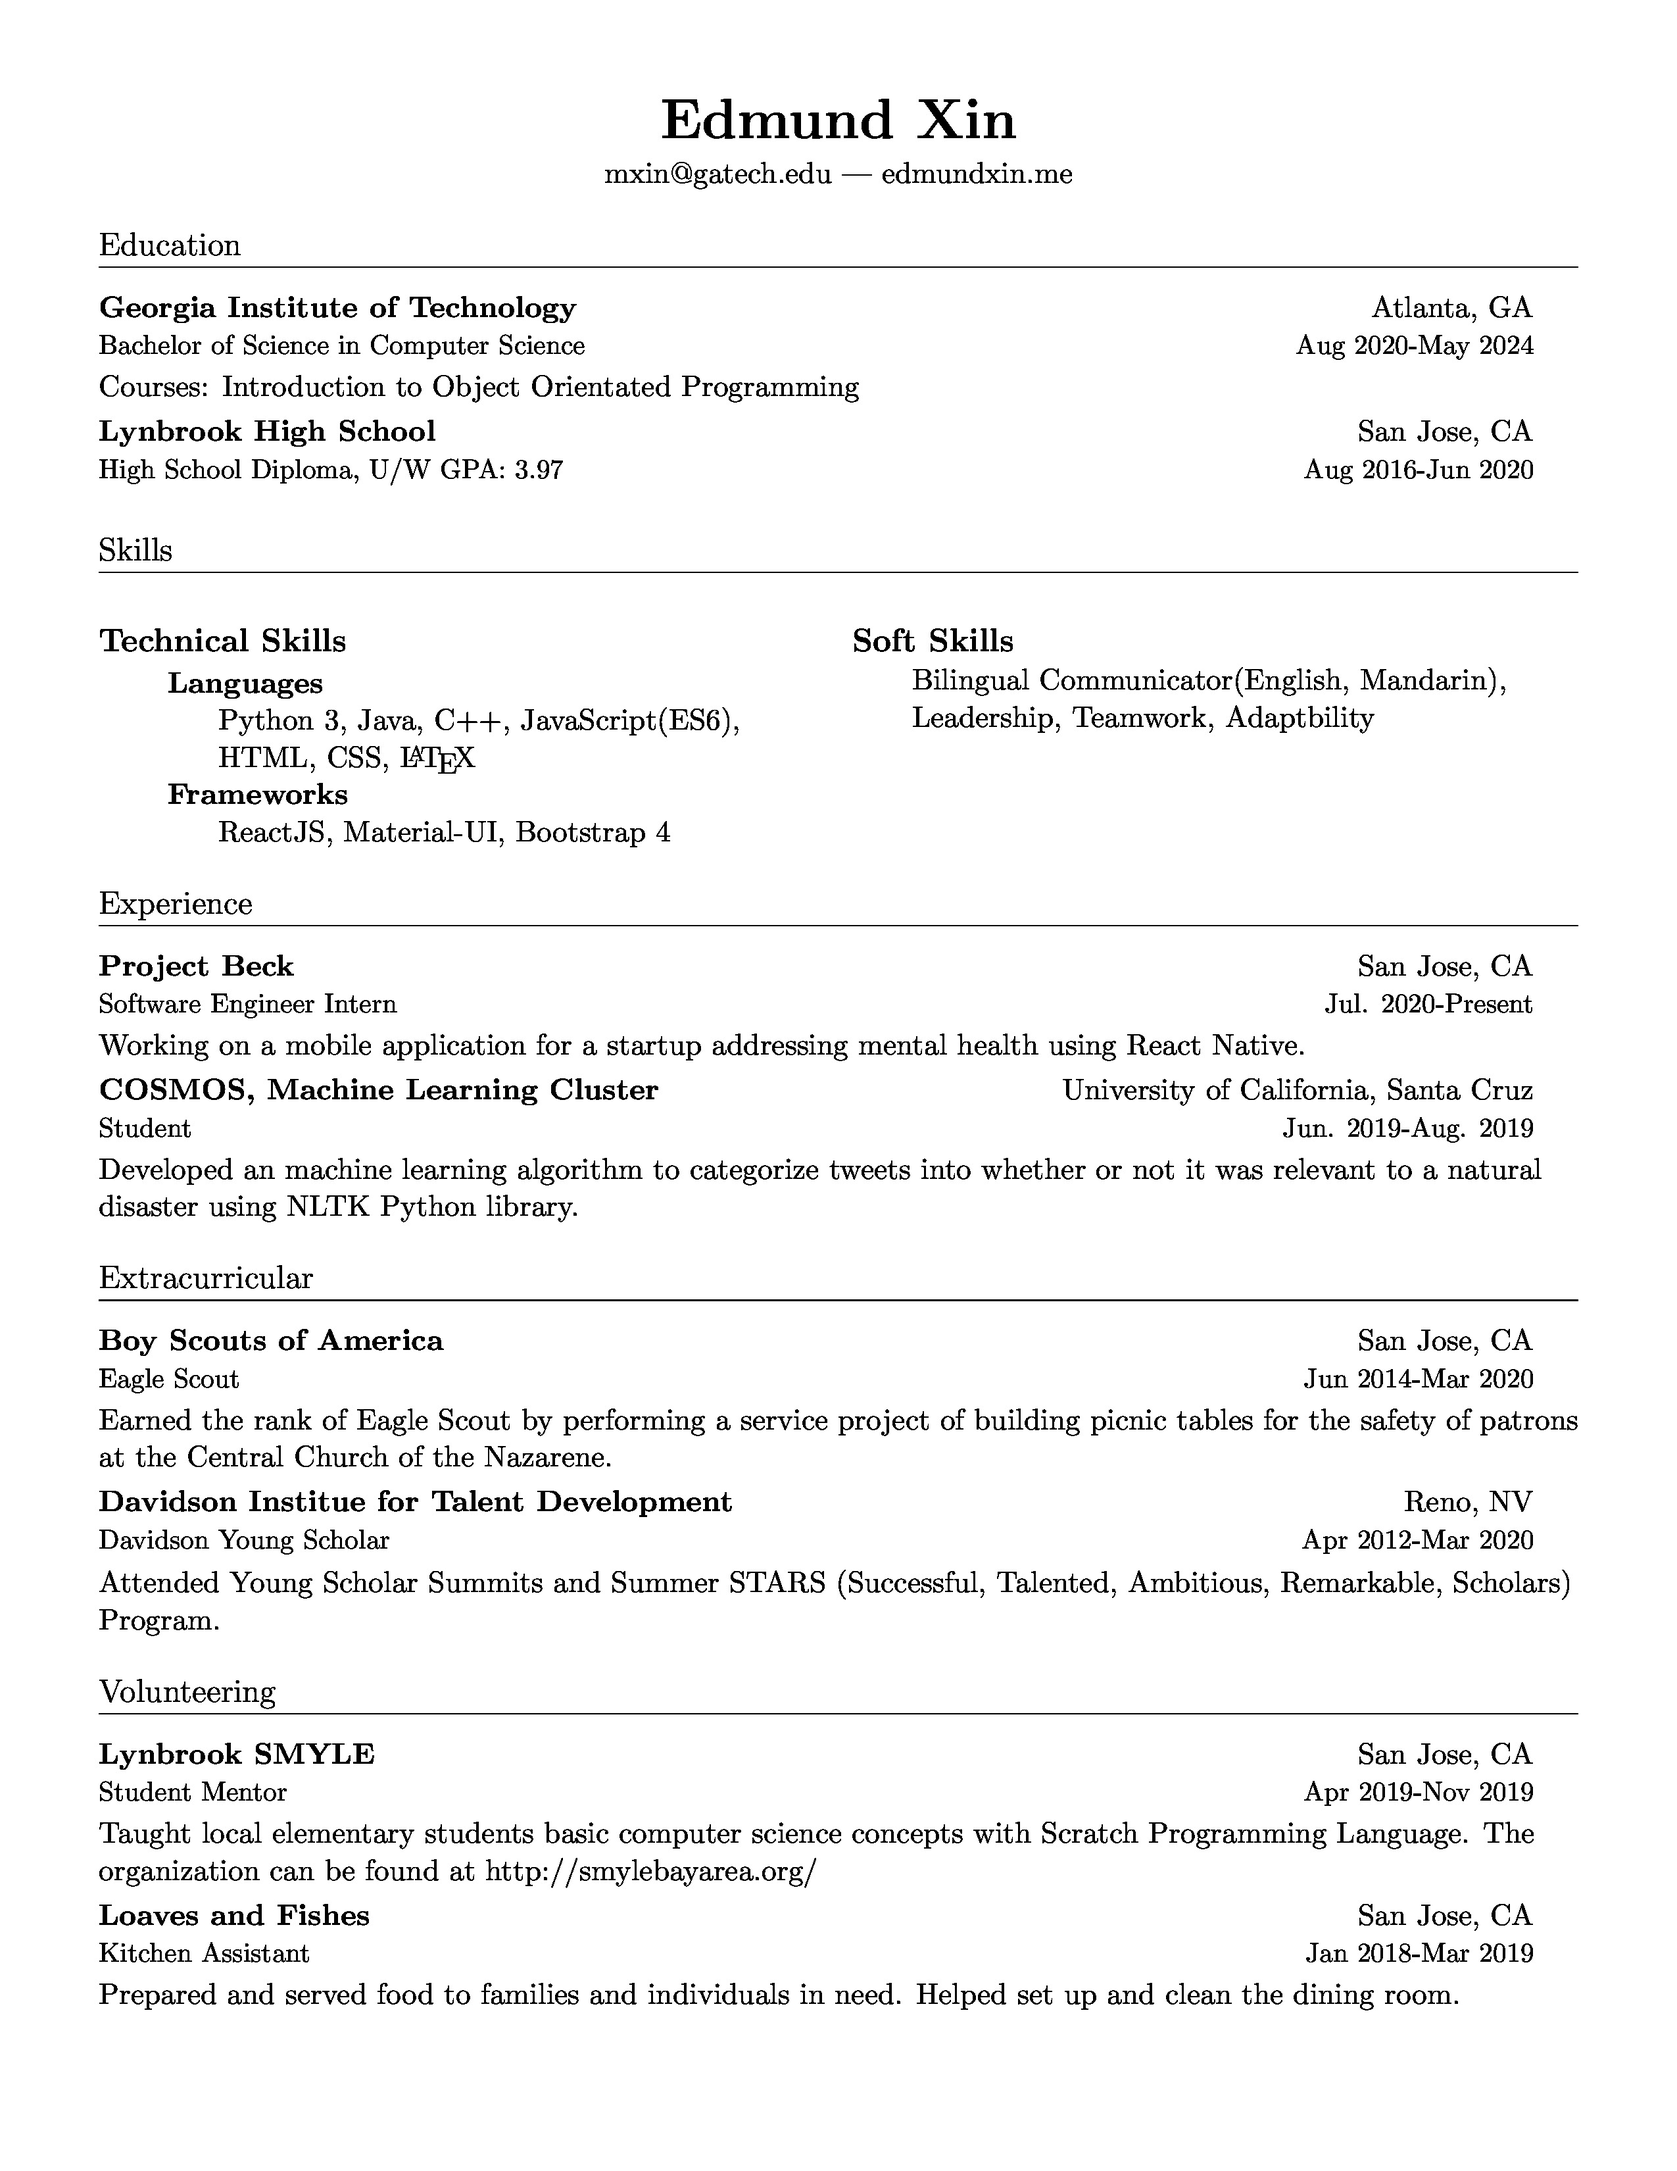
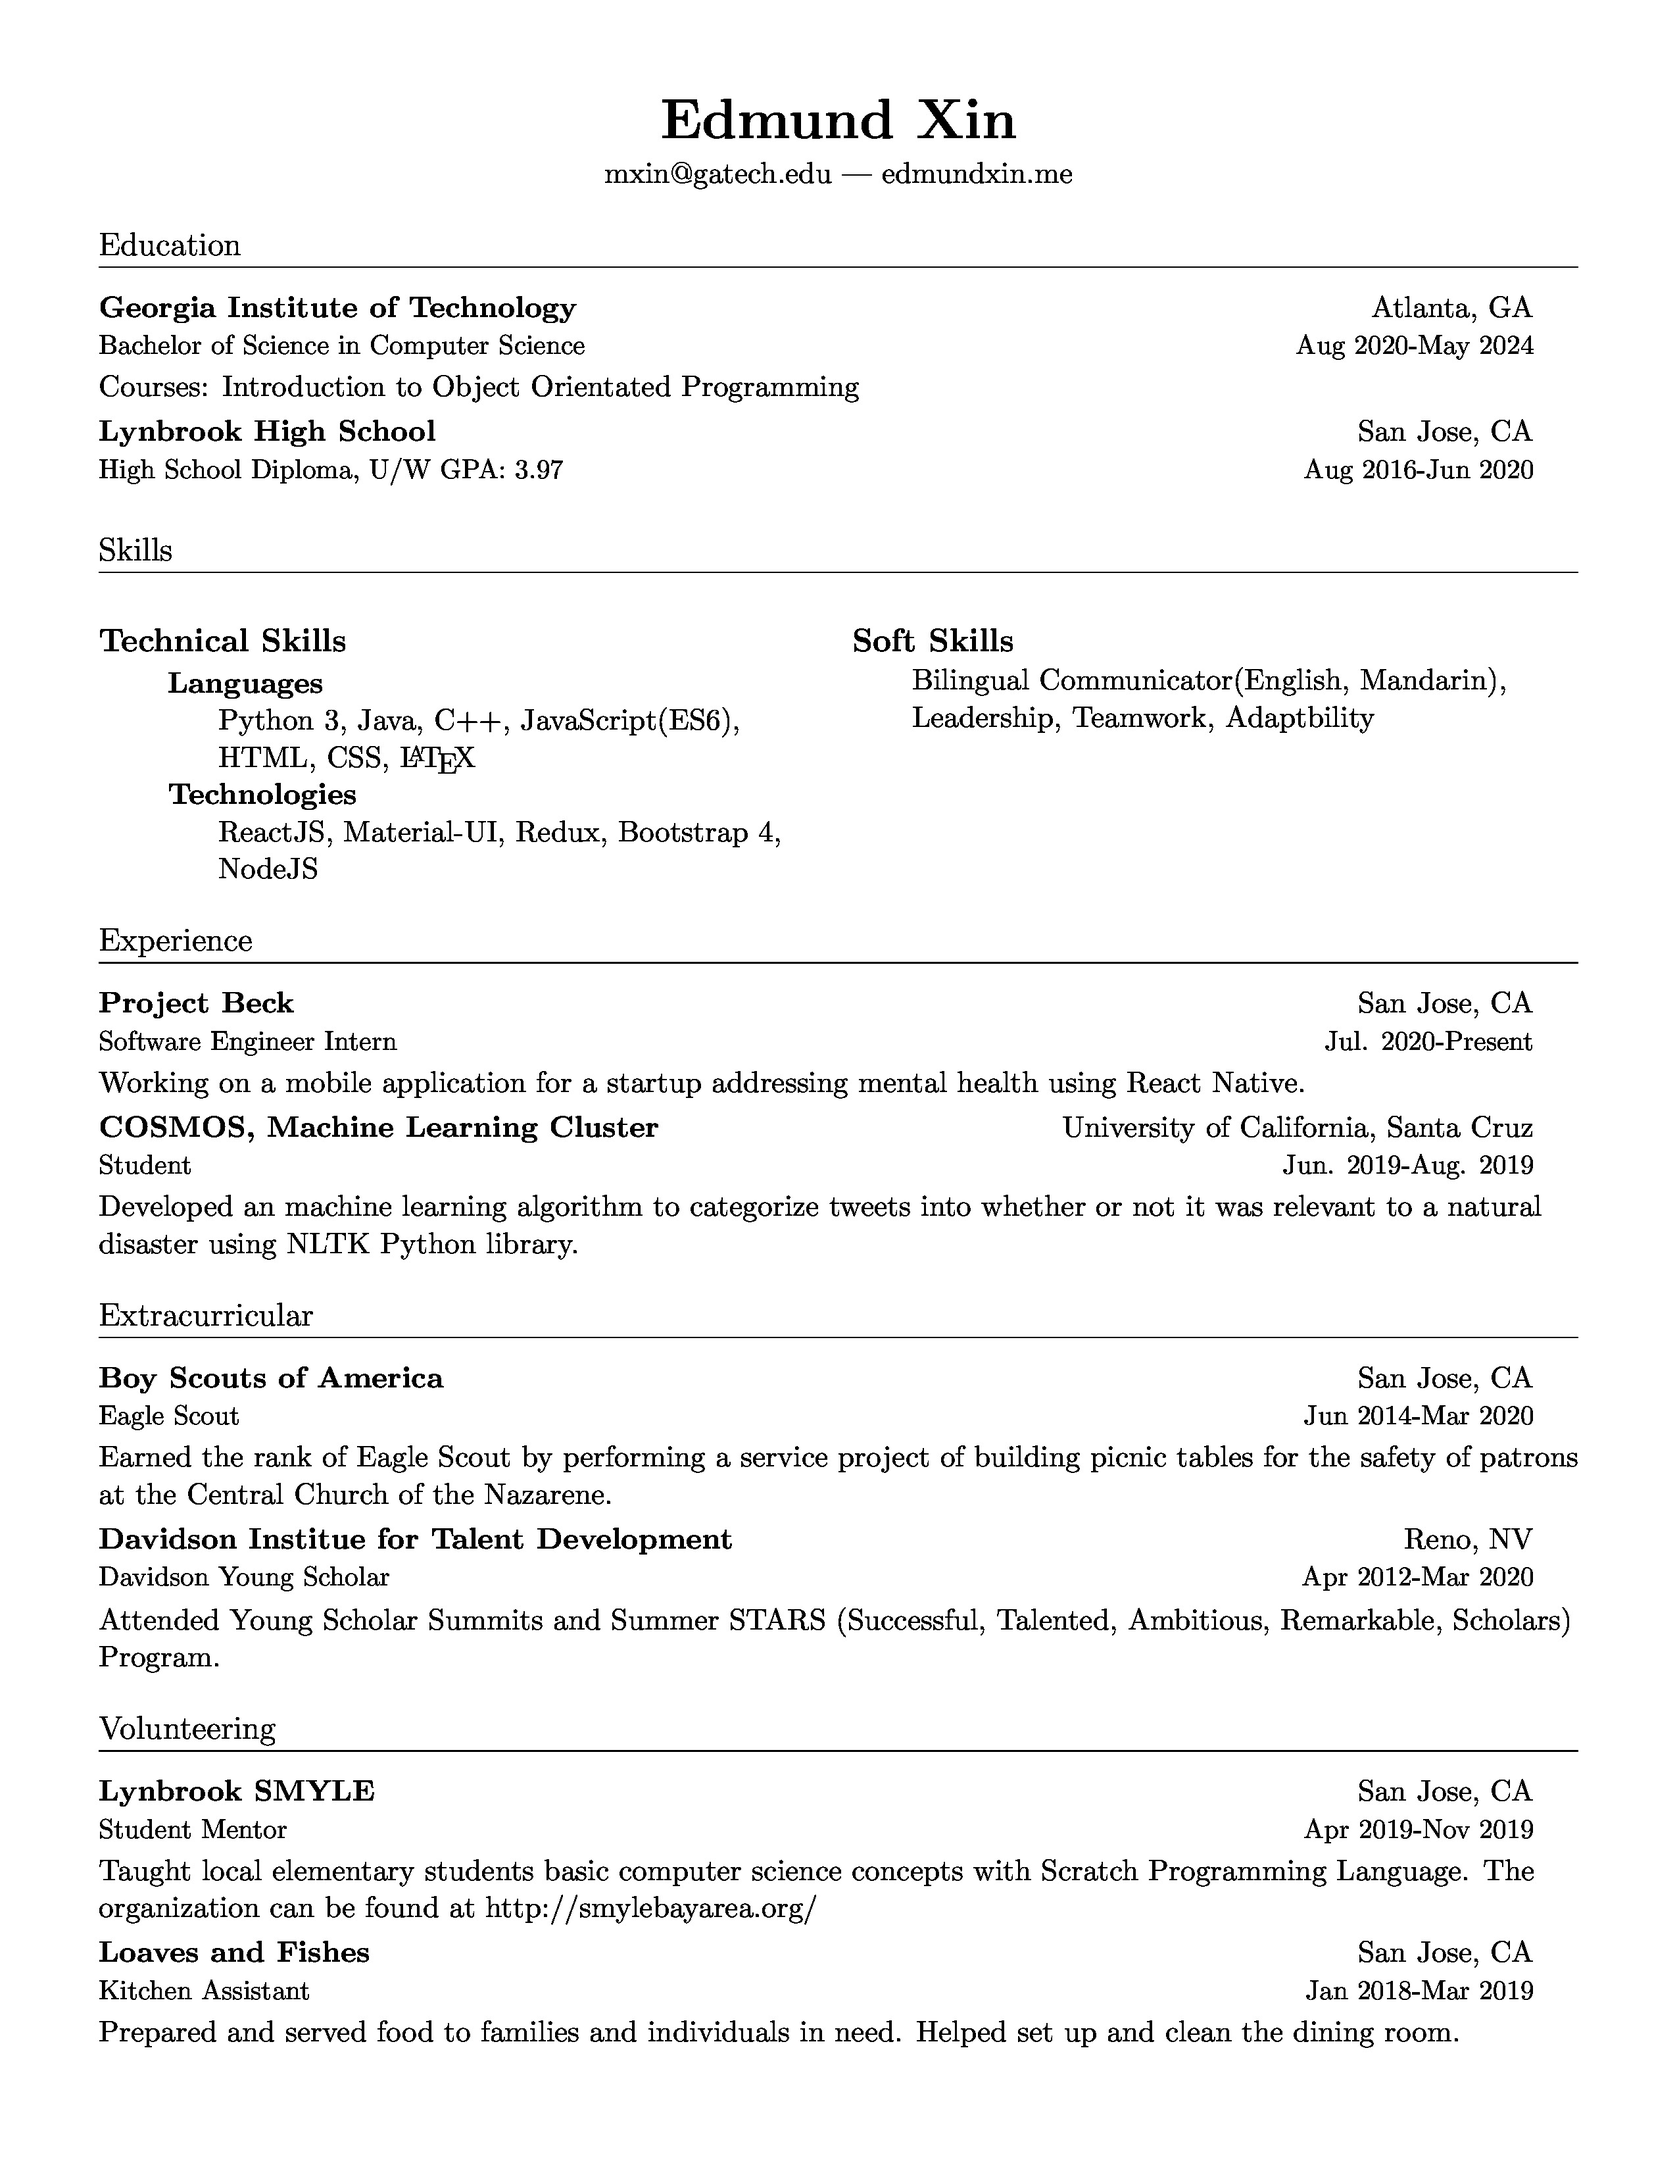
tech added

diff --git a/resume.tex b/resume.tex
@@ -107,10 +107,10 @@ Courses: Introduction to Object Orientated Programming
 Python 3, Java, C++, JavaScript(ES6), HTML, CSS, {\LaTeX}
 \end{adjustwidth}
 
-\subsubsection{Frameworks}
+\subsubsection{Technologies}
 
 \begin{adjustwidth}{4em}{}
-ReactJS, Material-UI, Bootstrap 4
+ReactJS, Material-UI, Redux, Bootstrap 4, NodeJS
 \end{adjustwidth}
 
 \columnbreak
